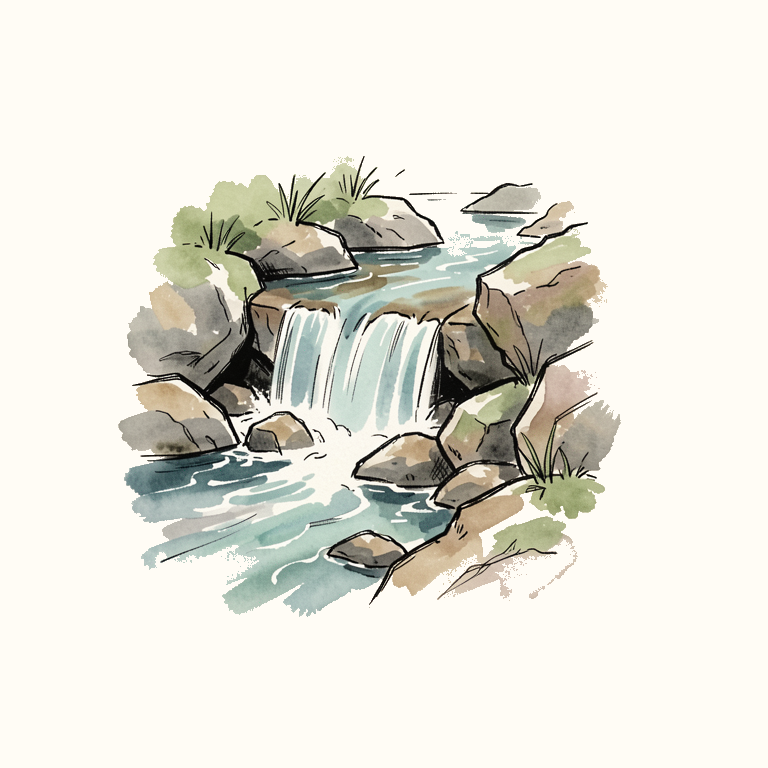
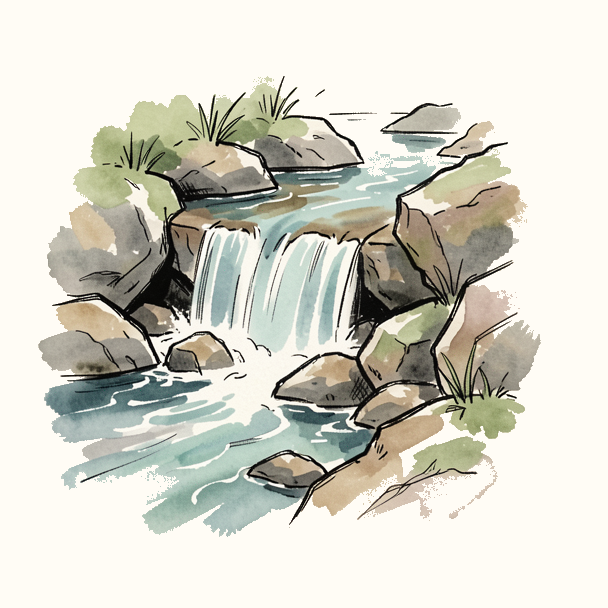
Crop waterfall card image tighter, reduce card image area to h-56

diff --git a/src/app/[locale]/page.tsx b/src/app/[locale]/page.tsx
@@ -147,7 +147,7 @@ export default async function HomePage({ params }: { params: any }) {
           {activities.map((activity) => (
             <FadeIn key={activity.title} className="flex">
               <article className="group relative flex w-full flex-col overflow-hidden border border-burgundy-200 bg-ivory transition hover:border-burgundy-400">
-                <div className="relative flex h-72 items-center justify-center overflow-hidden">
+                <div className="relative flex h-56 items-center justify-center overflow-hidden">
                   <OptimizedImage
                     src={activity.image}
                     alt=""
